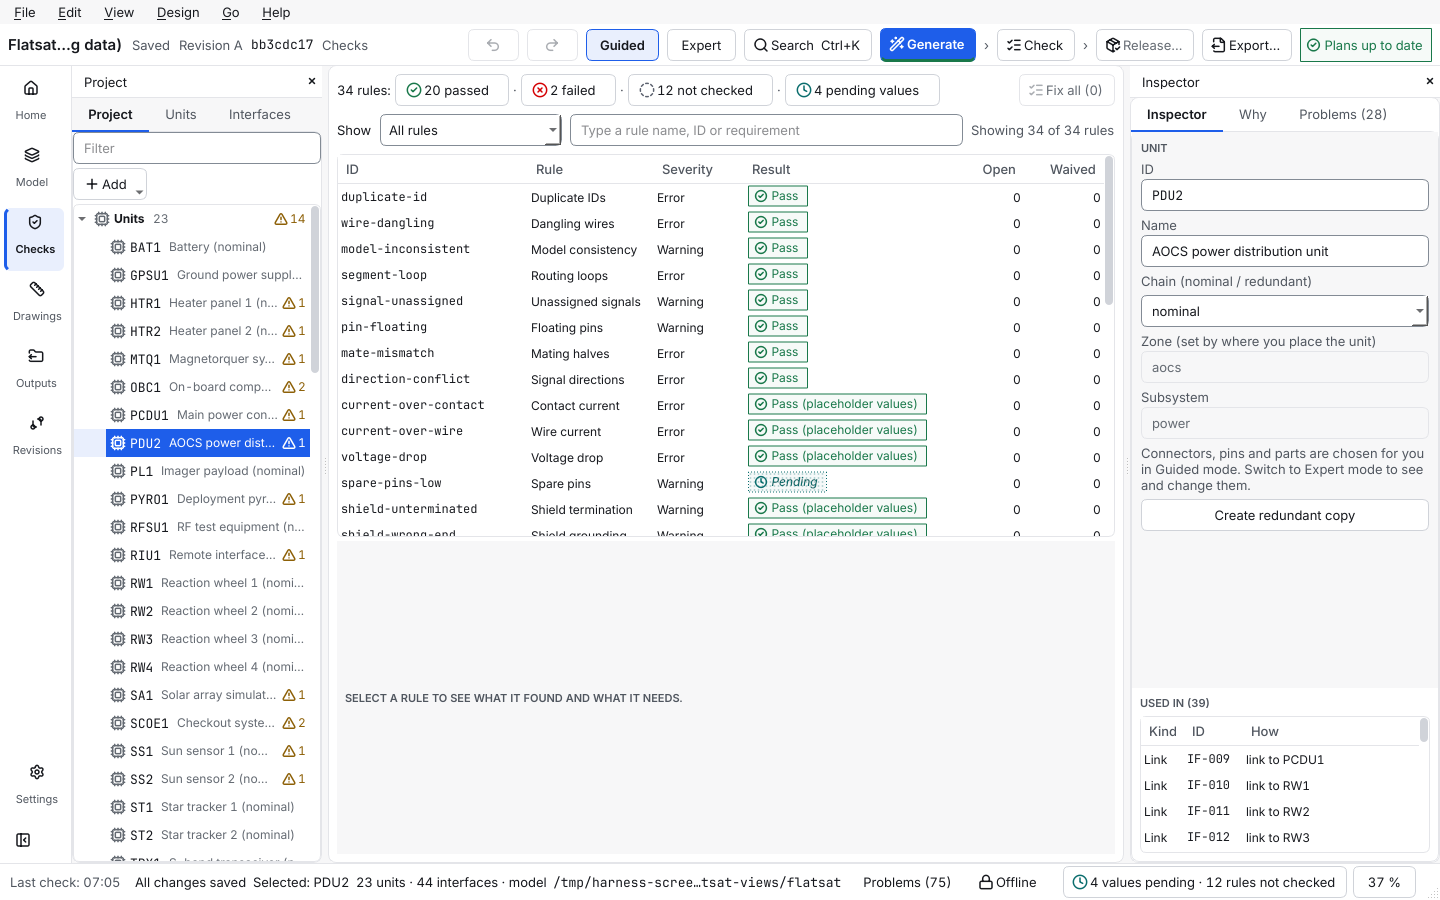
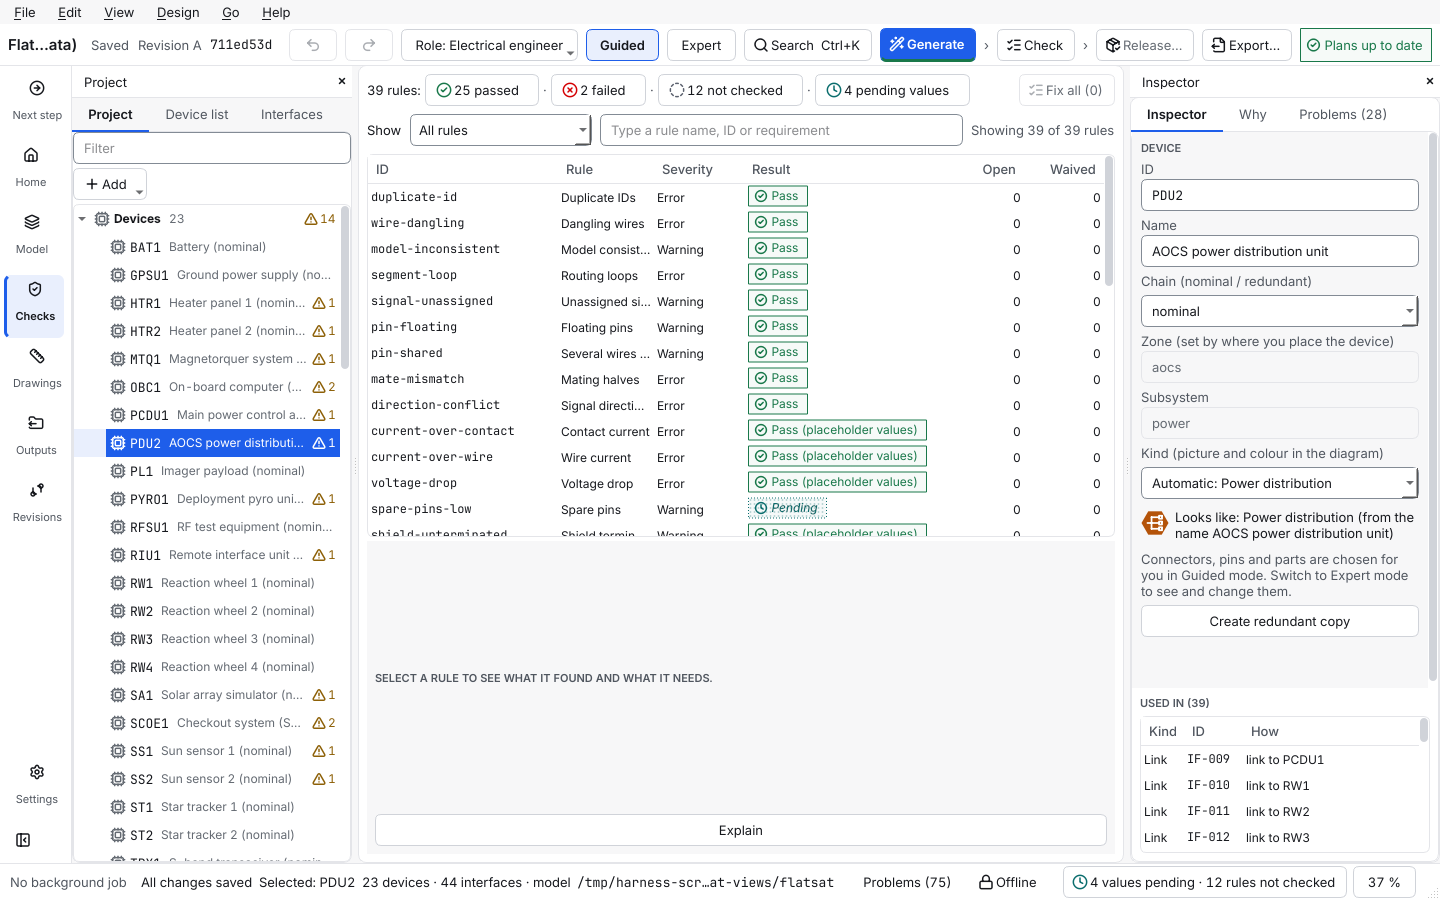
Documentation refresh, area D: regenerated screenshots and handling_screenshots tool
Claude-Session: https://claude.ai/code/session_01K7PmjFJdKvkUGQzZA5G9xT

diff --git a/HarnessDesignStudio/tools/handling_screenshots.py b/HarnessDesignStudio/tools/handling_screenshots.py
@@ -1,0 +1,281 @@
+# mypy: allow-untyped-calls, no-warn-unused-ignores, disable-error-code=misc
+"""Pictures of the diagram handling of 1.14 to 1.16 and of the windows that came with it, in the real
+editor (offscreen, light theme) for the manual: the cable in hand, the plug snapped on a port, a
+loose end, the Kind list in the Inspector, the Role button with Quick mode, the Quick window, the
+Export window with the open data, the window *How this was calculated* with its Model page line and
+the written block diagram of the flatsat example. Usage:
+
+    QT_QPA_PLATFORM=offscreen python -m tools.handling_screenshots [OUTPUT_FOLDER]   (default: docs/img)
+
+The cable pictures use a mouse that works in scene coordinates (real mouse events on the diagram's
+viewport), on a project of three devices with named pins; no project path is on show."""
+
+from __future__ import annotations
+
+import re
+import sys
+import tempfile
+from collections.abc import Callable
+from pathlib import Path
+from typing import Any
+
+from PySide6.QtCore import QPoint, QPointF, QRect, Qt
+from PySide6.QtGui import QColor, QImage, QPainter, QPixmap
+from PySide6.QtTest import QTest
+from PySide6.QtWidgets import QApplication, QComboBox
+
+from harness_design_studio.core import templates
+from harness_design_studio.core.derive import explain_object
+from harness_design_studio.gui import cable as cb
+from harness_design_studio.gui.explain_dialog import ExplainDialog
+from harness_design_studio.gui.main_window import MainWindow
+from tools import tab_screenshots as tabs
+from tools import ui_screenshots as shots
+
+DEFAULT_OUT = Path(__file__).resolve().parents[1] / "docs" / "img"
+LEFT = Qt.MouseButton.LeftButton
+SPOTS = {"OBC": (60.0, 70.0), "PCDU": (60.0, 330.0), "RW1": (520.0, 190.0)}
+WINDOW = (1280, 720)
+
+
+def main(out: Path = DEFAULT_OUT, only: str = "") -> int:
+    _ = QApplication.instance() or QApplication([])
+    out.mkdir(parents=True, exist_ok=True)
+    steps: dict[str, Callable[[Path], None]] = {
+        "cable": _cable_pictures,
+        "quick": _quick_pictures,
+        "kind": _kind_picture,
+        "export": _export_window_picture,
+        "explain": _explain_pictures,
+        "diagram": _written_diagram_pictures,
+    }
+    for name, step in steps.items():
+        if only in ("", name):
+            step(out)
+    print(f"wrote the pictures of the diagram handling to {out}")
+    return 0
+
+
+# ---- the mouse, in scene coordinates ----------------------------------------------------------
+
+
+class Mouse:
+    """Real mouse events on the viewport of the diagram, given in scene coordinates."""
+
+    def __init__(self, win: MainWindow) -> None:
+        self.win = win
+        self.view = win.view
+        self.scene = win.view.dscene
+
+    def at(self, p: QPointF) -> QPoint:
+        return self.view.mapFromScene(p)
+
+    def press(self, p: QPointF) -> None:
+        QTest.mousePress(self.view.viewport(), LEFT, pos=self.at(p))
+        QApplication.processEvents()
+
+    def move(self, p: QPointF) -> None:
+        QTest.mouseMove(self.view.viewport(), pos=self.at(p))
+        QApplication.processEvents()
+
+    def release(self, p: QPointF) -> None:
+        QTest.mouseRelease(self.view.viewport(), LEFT, pos=self.at(p))
+        QApplication.processEvents()
+
+    def port(self, unit: str, connector: str) -> cb.Port:
+        ports = self.scene.cable.ports_of(self.scene.unit_items[unit])
+        return next(p for p in ports if p.connector_id == connector)
+
+    @staticmethod
+    def grab_spot(port: cb.Port) -> QPointF:
+        """A point of a port where a press picks a cable up (inside the card edge)."""
+        return QPointF(port.x + (-4.0 if port.side == "right" else 4.0), port.y)
+
+    @staticmethod
+    def drop_spot(port: cb.Port) -> QPointF:
+        return QPointF(port.x + 2.0, port.y + 1.0)
+
+
+def _pinout_window(name: str, *, quick: bool = False) -> MainWindow:
+    """Three devices with named pins (`tab_screenshots._pinout_project`) in Expert mode, at 100 %."""
+    win = tabs._window(name, "blank", "electrical", WINDOW)
+    win.ctl._install(tabs._pinout_project(), None, None)
+    if quick:
+        win.act_quick.trigger()
+    win.go_to("diagram")
+    if not quick:
+        win.act_expert.trigger()  # (Quick mode keeps the Guided mode: one port on each device)
+    for uid, (x, y) in SPOTS.items():
+        win.ctl.move_unit(uid, x, y)
+    win.dock_right.hide()
+    win.dock_left.hide()
+    shots._settle(win, 600)
+    win.view.zoom_100()
+    win.view.centerOn(QPointF(420, 260))
+    shots._settle(win, 400)
+    return win
+
+
+def _cable_pictures(out: Path) -> None:
+    """The cable in hand, the plug snapped on a port, and a loose end."""
+    win = _pinout_window("harness-cable")
+    mouse = Mouse(win)
+    a, b = mouse.port("OBC", "OBC-J01"), mouse.port("RW1", "RW1-J02")
+    mouse.press(mouse.grab_spot(a))
+    for k in range(1, 5):  # a drag: the cable follows the pointer
+        mouse.move(QPointF(a.x + 48 * k, a.y + 38 * k))
+    tabs._save(win, out / "cable-in-hand.png")
+    mouse.move(mouse.drop_spot(b))
+    tabs._save(win, out / "cable-snaps-on-port.png")
+    mouse.release(QPointF(a.x + 240, a.y + 330))  # on empty ground: a loose end stays
+    shots._wait(400)
+    tabs._save(win, out / "cable-loose-end.png")
+    mouse.scene.cable.cable.cancel()
+    win.close()
+
+
+def _quick_pictures(out: Path) -> None:
+    """Quick mode: the whole window (Role button, the Quick marker, Export diagram) and the Role
+    button with its menu open."""
+    win = _pinout_window("harness-quick", quick=True)
+    win.ctl.add_link("OBC-J01", "RW1-J02", [("1", "3"), ("2", "4"), ("3", "1"), ("4", "2")])
+    win.ctl.add_link("PCDU-J01", "RW1-J01", [("1", "1"), ("2", "2")])
+    win.dock_left.show()
+    shots._settle(win, 400)
+    win.view.fit()
+    shots._settle(win, 400)
+    tabs._save(win, out / "quick-mode-window.png")
+    menu = win.role_btn.menu()
+    assert menu is not None
+    menu.popup(win.role_btn.mapToGlobal(QPoint(0, win.role_btn.height())))
+    shots._wait(500)
+    top = win.topbar.grab()
+    box = QRect(
+        win.topbar.mapFromGlobal(menu.mapToGlobal(QPoint(0, 0))), menu.size()
+    )  # (the menu is a window of its own)
+    canvas = QPixmap(win.topbar.width(), box.bottom() + 8)
+    canvas.fill(win.palette().window().color())
+    painter = QPainter(canvas)
+    painter.drawPixmap(0, 0, top)
+    painter.drawPixmap(box.topLeft(), menu.grab())
+    painter.end()
+    canvas.copy(560, 0, canvas.width() - 560, canvas.height()).save(
+        str(out / "role-button-menu.png")
+    )
+    print("role-button-menu.png")
+    menu.close()
+    win.close()
+
+
+def _kind_picture(out: Path) -> None:
+    """The Inspector of a device with its Kind list open (Automatic first, then the kinds)."""
+    win = tabs._window("harness-kind", "flatsat", "electrical", (1440, 900))
+    win.go_to("diagram")
+    win.ctl.select("unit", "PDU2")
+    shots._settle(win, 600)
+    box = win.findChild(QComboBox, "unit-kind")
+    assert box is not None
+    dock = win.dock_right
+    box.setMaxVisibleItems(box.count())  # all the kinds at once, without the scroll bar
+    box.showPopup()
+    shots._wait(500)
+    popup = box.view().window()
+    grabbed = dock.grab()
+    # (the offscreen platform puts the popup anywhere: draw it under the box, where it opens)
+    at = box.mapTo(dock, QPoint(0, box.height()))
+    both = QRect(QPoint(0, 0), grabbed.size()).united(QRect(at, popup.size()))
+    canvas = QPixmap(both.size())
+    canvas.fill(win.palette().window().color())
+    painter = QPainter(canvas)
+    painter.drawPixmap(0, 0, grabbed)
+    painter.drawPixmap(at, popup.grab())
+    painter.end()
+    canvas.save(str(out / "kind-list-inspector.png"))
+    print("kind-list-inspector.png")
+    box.hidePopup()
+    win.close()
+
+
+def _export_window_picture(out: Path) -> None:
+    """The Export window with the box *Include the open data* ticked, after an export."""
+    win = tabs._generated("harness-export-data", "systems", tabs.MAIN)
+
+    def dialog(d: Any) -> int:
+        d.show()
+        d.resize(1000, 720)
+        d.open_data.setChecked(True)
+        shots._wait(300)
+        d.export_btn.click()
+        waited = 0
+        while d.export_result is None and waited < 60000:
+            shots._wait(200)
+            waited += 200
+        shots._wait(800)
+        tabs._save(d, out / "export-window-open-data.png")
+        return 0
+
+    old = win.run_dialog
+    win.run_dialog = dialog  # type: ignore[assignment]
+    try:
+        win.export_dialog_flow()
+    finally:
+        win.run_dialog = old  # type: ignore[assignment]
+    win.close()
+
+
+def _explain_pictures(out: Path) -> None:
+    """The window *How this was calculated* for a wire, and the *Why* tab with *Show the calculation*
+    open, with the line *Model page:* under each calculation."""
+    win = tabs._window("harness-explain", "flatsat", "electrical", (1440, 900))
+    found = explain_object(win.ctl.project, "W001-001")
+    assert found
+    dlg = ExplainDialog(win, win.theme, found)
+    dlg.show()
+    dlg.resize(900, 560)
+    shots._wait(500)
+    tabs._save(dlg, out / "explain-window-model-page.png")
+    dlg.close()
+    win.go_to("diagram")
+    win.inspector.show_tab("why")  # the same calculation in the Why tab (Show the calculation)
+    panel = win.inspector.why
+    panel.show_object("wire", "W001-001")
+    assert panel.explain_button is not None
+    panel.explain_button.click()
+    win.dock_right.show()
+    win.dock_right.resize(460, 900)
+    shots._settle(win, 600)
+    tabs._save(win.dock_right, out / "why-tab-model-page.png")
+    win.close()
+
+
+def _written_diagram_pictures(out: Path) -> None:
+    """The block diagram that `export` writes (`system/block_diagram.svg`) for the flatsat example, with the looks of the devices, as a picture."""
+    from harness_design_studio.core.generate.engine import generate_project
+    from harness_design_studio.core.outputs import export_project
+
+    tmp = Path(tempfile.mkdtemp())
+    templates.create_project(tmp / "flatsat", "flatsat")
+    del generate_project, export_project  # (placeholder; replaced by the real calls below)
+    raise NotImplementedError
+
+
+def _rasterise(svg: Path, png: Path, width: int, *, crop: bool = False) -> None:
+    """Draw an SVG sheet with Qt's renderer on a white ground. The SVG names `Courier New`, which
+    Qt does not map by itself, so a copy with a monospace face that is installed is drawn."""
+    from PySide6.QtSvg import QSvgRenderer
+
+    text = re.sub(r"Courier New, Courier, monospace", "Liberation Mono", svg.read_text("utf-8"))
+    renderer = QSvgRenderer(text.encode("utf-8"))
+    size = renderer.defaultSize()
+    height = round(width * size.height() / size.width())
+    image = QImage(width, height, QImage.Format.Format_RGB32)
+    image.fill(QColor("white"))
+    painter = QPainter(image)
+    renderer.render(painter)
+    painter.end()
+    image.save(str(png))
+
+
+if __name__ == "__main__":
+    args = sys.argv[1:]
+    raise SystemExit(main(Path(args[0]) if args else DEFAULT_OUT, args[1] if len(args) > 1 else ""))

diff --git a/HarnessDesignStudio/tools/gui_screenshots.py b/HarnessDesignStudio/tools/gui_screenshots.py
@@ -58,8 +58,8 @@ def main() -> int:
     win.tour.stop()
     shot("02-guided-main")
     action("menu-add-sensor").trigger()  # Edit > Add unit (was the Palette's button)
-    action("menu-connect-can").trigger()  # Edit > Connect with; the Connect tool's arrow lists them
-    win.ctl.pick("OBC")
+    action("menu-connect-power_primary").trigger()  # Edit > Connect with
+    win.ctl.pick("PCDU")  # first device picked: the devices that can take the type light up
     shot("03-connect-compatible-highlight")
     win.ctl.end_connect()
     win.ctl.set_mode("expert")

diff --git a/HarnessDesignStudio/tools/flatsat_screenshots.py b/HarnessDesignStudio/tools/flatsat_screenshots.py
@@ -76,6 +76,10 @@ def main() -> int:
     _wait(500)
     win.view.grab().save(str(OUT / "flatsat-focus.png"))
     win.ctl.select(None)
+    waited = 0
+    while win.toasts.isVisible() and waited < 8000:  # "Properties are hidden ..." goes after 5 s
+        _wait(100)
+        waited += 100
     win.act_legend.setChecked(False)  # the close-up is of cards, not of the key
     win.view.set_legend_wanted(False)
     close = QRectF()
